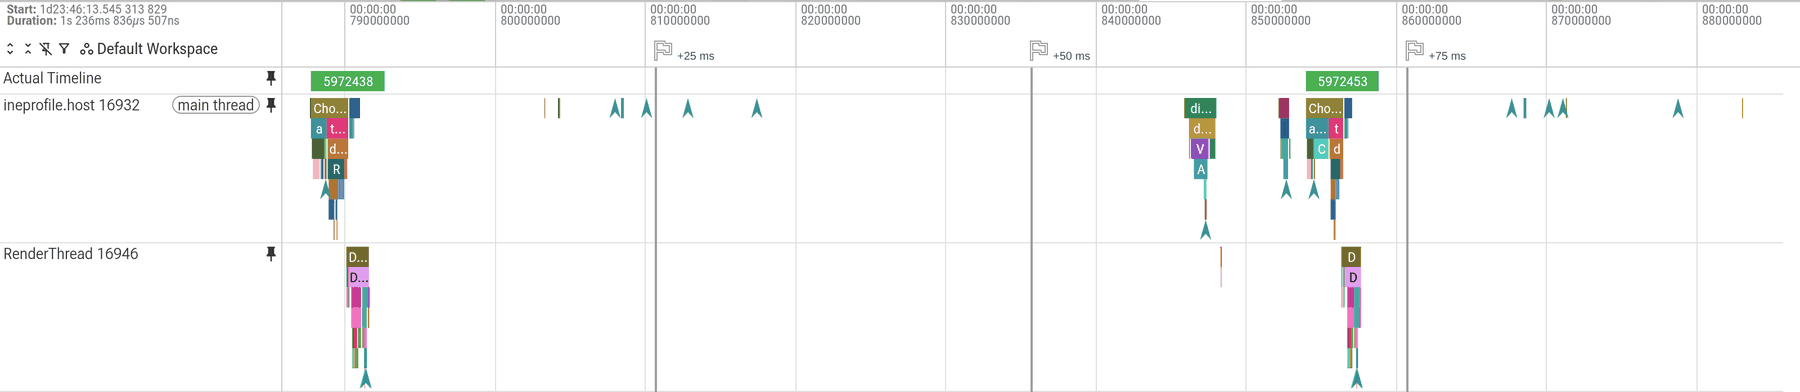
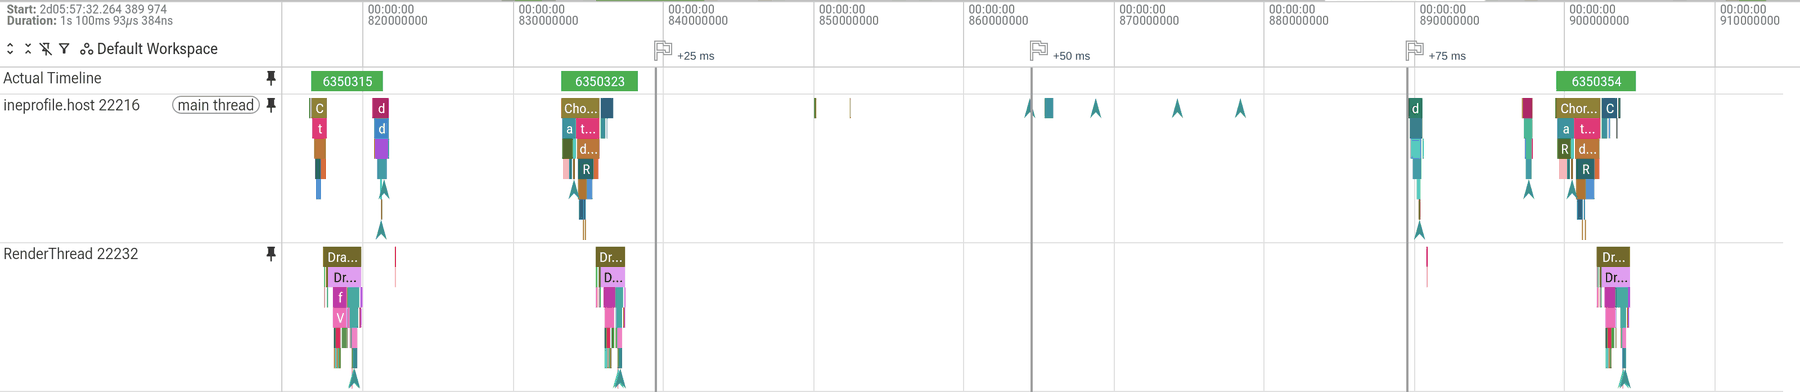
site: 173670b2c2cf865ecb2b729953d0a6b0ee6b36a2

diff --git a/benchmarks.html b/benchmarks.html
@@ -244,32 +244,27 @@ card on a full screen. Tapping the document shows the next of ten data variants,
 <tbody>
 <tr>
 <td>Compose UI</td>
-<td style="text-align: right;">9.5</td>
-<td style="text-align: right;">4.3 ms</td>
-<td style="text-align: right;">5.6 ms</td>
-<td style="text-align: right;">6.4 ms</td>
-<td style="text-align: right;">−7.8 ms</td>
+<td style="text-align: right;">9</td>
+<td style="text-align: right;">3.9 ms</td>
+<td style="text-align: right;">5.9 ms</td>
+<td style="text-align: right;">8.0 ms</td>
+<td style="text-align: right;">−5.7 ms</td>
 </tr>
 <tr>
 <td>Livery</td>
-<td style="text-align: right;">19</td>
-<td style="text-align: right;">4.0 ms</td>
-<td style="text-align: right;">6.6 ms</td>
-<td style="text-align: right;">8.2 ms</td>
-<td style="text-align: right;">−5.9 ms</td>
-</tr>
-<tr>
-<td>Livery, no flat layout</td>
-<td style="text-align: right;">11</td>
-<td style="text-align: right;">3.8 ms</td>
-<td style="text-align: right;">6.4 ms</td>
-<td style="text-align: right;">6.8 ms</td>
-<td style="text-align: right;">−6.9 ms</td>
+<td style="text-align: right;">9</td>
+<td style="text-align: right;">6.3 ms</td>
+<td style="text-align: right;">8.6 ms</td>
+<td style="text-align: right;">9.1 ms</td>
+<td style="text-align: right;">−4.5 ms</td>
 </tr>
 </tbody>
 </table>
-<p>Livery draws about two frames for each change, the twin one; with <code>flattenLayout = false</code> it draws one, and the p99 matches the
-twin's. A tap in the Perfetto UI, 100 ms:</p>
+<p>Both draw one frame for each change. Livery plans the new data from memory when the template it chose for the slot is already
+known (<code>LiverySlot</code>'s <code>planNow</code>, <code>SlotPlanner.forAppDataNow</code>), so the new card composes in the frame the tap lands in. That
+frame carries the whole update (compose, layout, draw), so its CPU time is higher than the twin's, with the same frame
+count. The first data of a slot, a catalog change, or data the contract rejects takes the usual plan, off the main thread, and
+the card draws a frame later. A tap in the Perfetto UI, 100 ms:</p>
 <p><a href="assets/benchmarks/perfetto-change-compose-ui.png"><img src="assets/benchmarks/perfetto-change-compose-ui.png" alt="Perfetto UI: the Compose UI twin, a data change" style="max-width:100%;height:auto;border:1px solid #8884"></a></p>
 <p><a href="assets/benchmarks/perfetto-change-livery.png"><img src="assets/benchmarks/perfetto-change-livery.png" alt="Perfetto UI: Livery, a data change" style="max-width:100%;height:auto;border:1px solid #8884"></a></p>
 <h2 id="animated-feed">Animated feed<a class="headerlink" href="#animated-feed" title="Permanent link">#</a></h2>
@@ -730,7 +725,7 @@ hashes) and the traces from your own machine and writes only the images. The raw
 are in <code>livery-baselineprofile/</code>; its README describes each lane. A JVM profile (<code>:livery-compose:liveryFeedProfile</code>) gives
 the same comparison without a device, with software rendering, for quick iteration.</p>
 <h2 id="tested-at">Tested at<a class="headerlink" href="#tested-at" title="Permanent link">#</a></h2>
-<p>Livery <a href="https://github.com/yschimke/livery/commit/62bf078"><code>62bf078</code></a>, rc-players 3.6.1, Pixel 9, Android 17 (API 37).</p>
+<p>Livery <a href="https://github.com/yschimke/livery/commit/62bf078"><code>62bf078</code></a>, rc-players 3.6.1, Pixel 9, Android 17 (API 37); the data-change lanes (Compose UI and Livery) and their Perfetto traces at <a href="https://github.com/yschimke/livery/commit/eb5d6b1"><code>eb5d6b1</code></a>.</p>
     <p class="edit"><a href="https://github.com/yschimke/livery/blob/main/site/pages/benchmarks.md">Edit this page</a></p>
   </main>
 </div>
